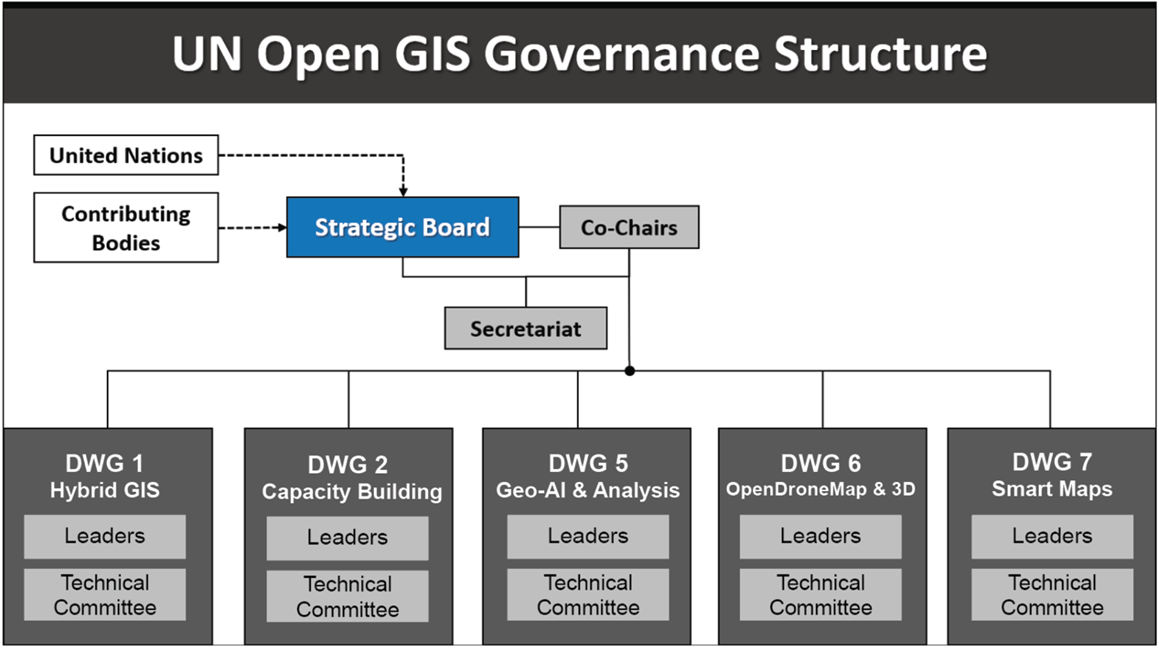
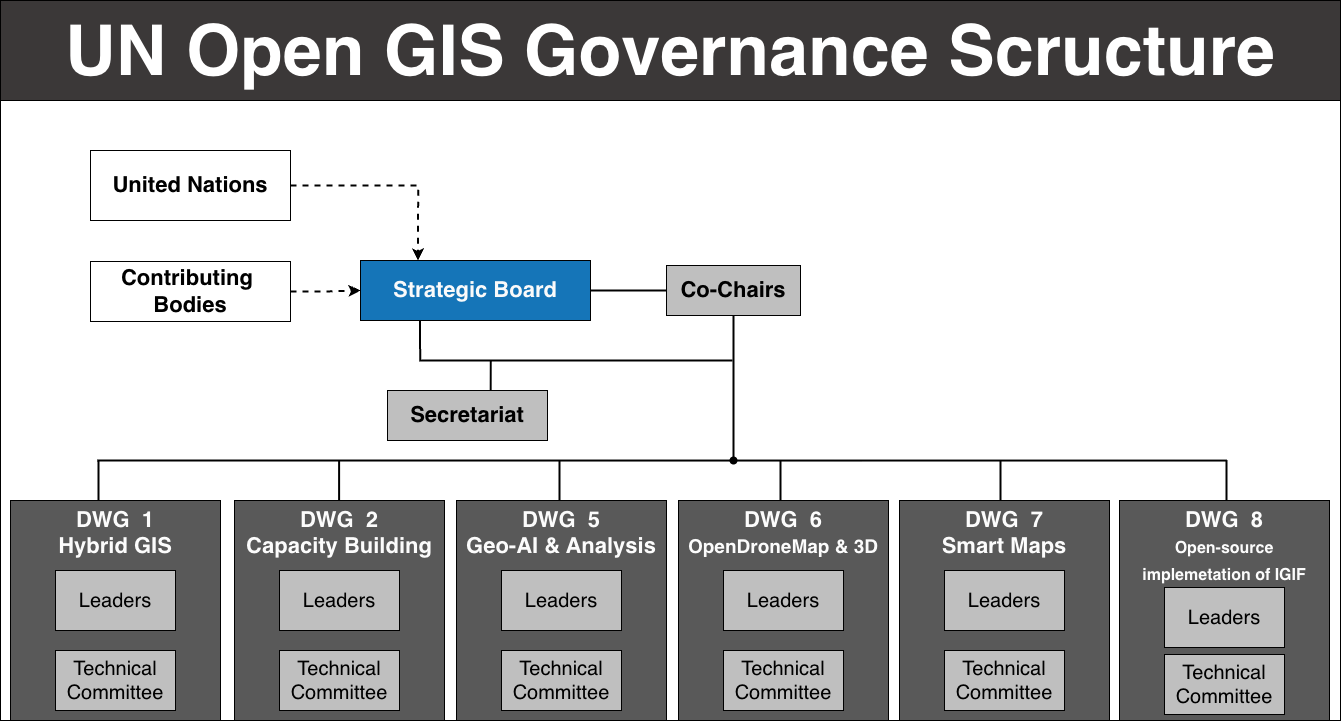
Change ./Governance.html ./Overview.html

diff --git a/Governance.html b/Governance.html
@@ -150,7 +150,7 @@
 								<li><b>DWG 5 - Geo-AI & Analysis,</b> Maria Antonia Brovelli, Zhongxin Chen, Andrea Manara, Cung Thang</li>
 								<li><b>DWG 6 - OpenDroneMap  & 3D,</b> Catalina Ramos, Davide Barbiero</li>
 								<li><b>DWG 7 - Smart Maps,</b> Hidenori Fujimura, Diego Gonzalez</li>
-
+								<li><b>DWG 8 - Open-source implemetation of IGIF,</b> Ariel Anthieni, Horacio Castellaro</li>
             </div>
           </div>
         </section>

diff --git a/Overview.html b/Overview.html
@@ -71,7 +71,7 @@
           <div class="overview-content">
             <article class="overview-left">
               <img
-                src="./Overview_files/1711562820-1.png"
+                src="./Overview_files/Governance.png"
                 alt="Governance Structure of UN Open GIS Initiative"
               />
               <p>
